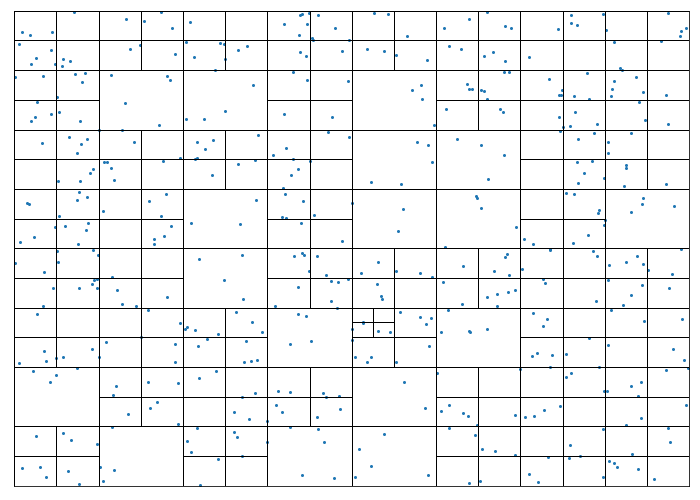
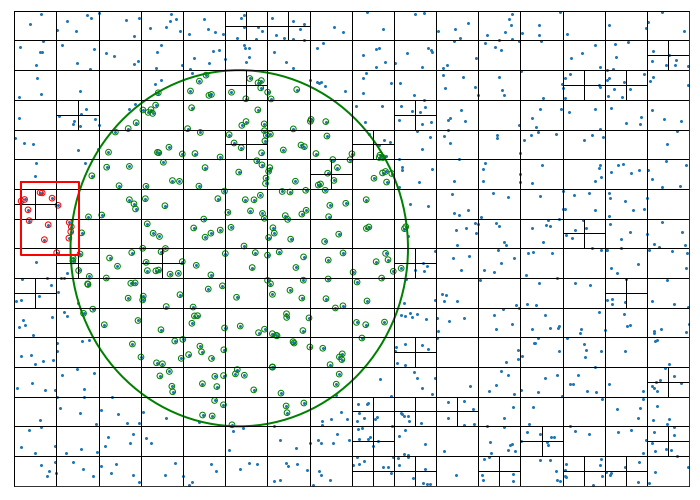
Add radius search to quadtree

diff --git a/Trees/quadtree-implement-and-visualize/quadtree.py b/Trees/quadtree-implement-and-visualize/quadtree.py
@@ -1,10 +1,15 @@
 import numpy as np
+import math as m
+from matplotlib.patches import Circle
 
 
 class Point:
     def __init__(self, x, y):
         self.x = x
         self.y = y
+
+    def distanceToCenter(self, center: "Point"):
+        return m.sqrt((center.x-self.x)**2+(center.y-self.y)**2)
 
 
 class Rectangle:
@@ -21,11 +26,31 @@ class Rectangle:
         return (self.west <= point.x < self.east and
                 self.north <= point.y < self.south)
 
+    def intersects(self, range):
+        return not (range.west > self.east
+                    or range.east < self.west
+                    or range.north > self.south
+                    or range.south < self.north)
+
     def draw(self, ax, c='k', lw=1, **kwargs):
         x1, y1 = self.west, self.north
         x2, y2 = self.east, self.south
         ax.plot([x1, x2, x2, x1, x1], [y1, y1, y2, y2, y1],
                 c=c, lw=lw, **kwargs)
+
+    def drawCircle(self, radius, ax, c='k', lw=1, **kwargs):
+        x1, y1 = self.west, self.north
+        x2, y2 = self.east, self.south
+        # ax.plot(300, 200,
+        #         c=c, lw=lw, **kwargs)
+        circle = Circle((self.center.y, self.center.y), radius, edgecolor=c,
+                        fill=False, linewidth=lw)
+
+        ax.add_patch(circle)
+
+        # ax.plot([200], [200], c=c, lw=lw, **kwargs)
+        # ax.pie([200, 200], colors=['limegreen', 'crimson'],
+        #        labels=['Correct', 'Wrong'], autopct='%1.1f%%')
 
 
 class QuadTree:
@@ -35,9 +60,13 @@ class QuadTree:
         self.capacity = capacity
         self.points = []
         self.divided = False
+        self.nw: QuadTree
+        self.ne: QuadTree
+        self.sw: QuadTree
+        self.ne: QuadTree
 
     def insert(self, point: Point):
-        print("inserting")
+        print("inserting", point.x, point.y)
         # if the point is in the range of current quadtree
         if not self.boundary.containsPoint(point):
             return False
@@ -51,17 +80,53 @@ class QuadTree:
             print("Dividing")
             self.divide()
 
-        print("Inserting into child:", point)
         if self.nw.insert(point):
+            print("Inserting point:", point.x, point.y, "into child nw")
             return True
         if self.ne.insert(point):
+            print("Inserting point:", point.x, point.y, "into child ne")
             return True
         if self.sw.insert(point):
+            print("Inserting point:", point.x, point.y, "into child sw")
             return True
         if self.se.insert(point):
+            print("Inserting point:", point.x, point.y, "into child se")
             return True
 
         return False
+
+    def queryRange(self, range: Rectangle):
+        found_points = []
+        if not self.boundary.intersects(range):
+            return []
+        for point in self.points:
+            if range.containsPoint(point):
+                found_points.append(point)
+
+        if self.divided:
+            found_points.extend(self.nw.queryRange(range))
+            found_points.extend(self.ne.queryRange(range))
+            found_points.extend(self.sw.queryRange(range))
+            found_points.extend(self.se.queryRange(range))
+
+        return found_points
+
+    def queryRadius(self, range: Rectangle, center):
+        found_points = []
+        if not self.boundary.intersects(range):
+            return []
+        for point in self.points:
+            # width is our radius
+            if range.containsPoint(point) and point.distanceToCenter(center) < range.width:
+                found_points.append(point)
+
+        if self.divided:
+            found_points.extend(self.nw.queryRadius(range, center))
+            found_points.extend(self.ne.queryRadius(range, center))
+            found_points.extend(self.sw.queryRadius(range, center))
+            found_points.extend(self.se.queryRadius(range, center))
+
+        return found_points
 
     def divide(self):
         center_x = self.boundary.center.x

diff --git a/Trees/quadtree-implement-and-visualize/test.py b/Trees/quadtree-implement-and-visualize/test.py
@@ -1,5 +1,6 @@
 import numpy as np
 import matplotlib.pyplot as plt
+from matplotlib.pyplot import subplot
 from matplotlib import gridspec
 from quadtree import Point, Rectangle, QuadTree
 
@@ -7,7 +8,7 @@ DPI = 72
 
 width, height = 600, 400
 
-N = 500
+N = 1000
 
 xs = np.random.rand(N) * width
 ys = np.random.rand(N) * height
@@ -37,6 +38,48 @@ qtree.draw(ax)
 ax.scatter([p.x for p in points], [p.y for p in points], s=4)
 ax.set_xticks([])
 ax.set_yticks([])
+
+# test the rectangle range
+# generate the range
+center_x = np.random.rand() * width
+center_y = np.random.rand() * height
+
+range_width = np.random.rand()*min(center_x, width-center_x)
+range_height = np.random.rand()*min(center_y, height-center_y)
+
+found_points = []
+range = Rectangle(Point(center_x, center_y), range_width, range_height)
+found_points = qtree.queryRange(range)
+
+print("points in range", len(found_points))
+
+ax.scatter([p.x for p in found_points], [p.y for p in found_points],
+           facecolors="none", edgecolors="r", s=32)
+range.draw(ax, c="r", lw=2)
+
+# test the radius
+# generate the radius range
+# center_x = np.random.rand() * width
+# center_y = np.random.rand() * height
+center_x = 300
+center_y = 200
+
+range_width = np.random.rand()*min(center_x, width-center_x)
+range_height = np.random.rand()*min(center_y, height-center_y)
+
+found_points = []
+# range = Rectangle(Point(center_x, center_y), range_width, range_height)
+# found_points = qtree.queryRange(range)
+radius = min(range_width, range_height)
+radius = 150
+range = Rectangle(Point(center_y, center_y), radius, radius)
+found_points = qtree.queryRadius(range, Point(center_y, center_y))
+
+print("points in radius", len(found_points))
+
+ax.scatter([p.x for p in found_points], [p.y for p in found_points],
+           facecolors="none", edgecolors="g", s=32)
+range.drawCircle(radius, ax, c="g", lw=2)
 
 ax.invert_yaxis()
 plt.tight_layout()

diff --git a/Trees/quadtree-implement-and-visualize/README.md b/Trees/quadtree-implement-and-visualize/README.md
@@ -1,0 +1,3 @@
+https://www.youtube.com/watch?v=RKODYaueSvw
+
+https://www.youtube.com/watch?v=9CJp-k_OjC4
